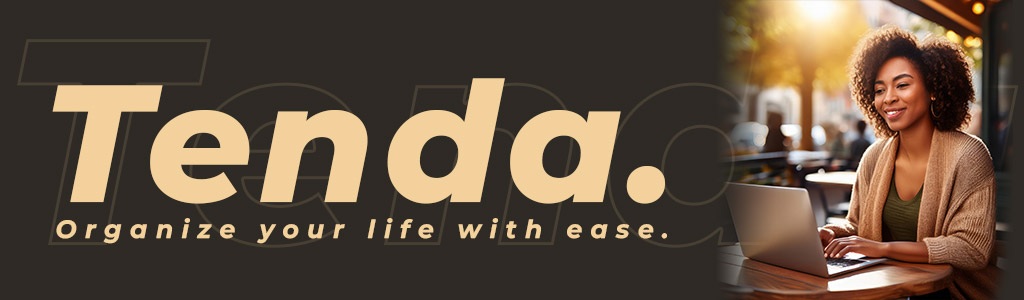
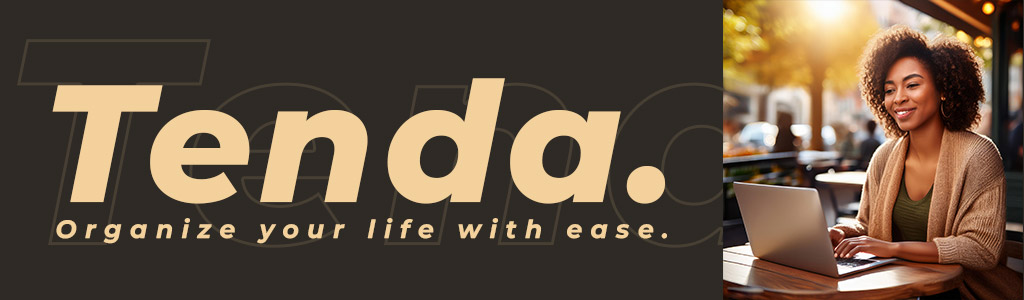
Page alignments and colour changes.

Changed region(s): [[0.6875, 0.0, 1.0, 1.0]]

diff --git a/tenda/static/main.css b/tenda/static/main.css
@@ -3,8 +3,18 @@ body {
   color: #F3D19C;
   margin: 20px;
   margin-top: 6rem;
-  }
-  
+}
+.cover-image {
+  border: 5px solid #F3D19C;
+  border-radius: 10px;
+}
+#landing {
+  display: flex;
+  justify-content: center;
+  align-items: center;
+  flex-direction: column;
+} 
+
 h1, h2, h3, h4, h5, h6 {
   color: #F3D19C;
 }
@@ -53,31 +63,35 @@ h1, h2, h3, h4, h5, h6 {
   padding: 10px 10px;
   border: none;
   border-radius: 5px;
-  font-size: 16px;
+  font-size: 20px;
   display: inline-block;
   text-decoration: none;
   cursor: pointer;
+  font-weight: bold;
 }
 #features {
-  padding: 4rem;
+  padding: 0rem;
   text-align: center;
 }
 .feature-container {
   display: flex;
   justify-content: space-around;
-  flex-wrap: wrap;
+  flex-direction: row;
+  color: #2E2A25;
   gap: 2rem;
 }
 .feature-container img{
-  width: 30%;
+  width: 80%;
   height: auto;
   margin: 10px;
 }
 .feature {
-  background-color: #fff;
-  padding: 2rem;
+  background-color: #F3D19C;
   border-radius: 10px;
   box-shadow: 0 4px 10px rgba(0, 0, 0, 0.1);
+}
+.feature-text {
+  color: #2E2A25;
 }
 .links {
   display: block;
@@ -85,7 +99,45 @@ h1, h2, h3, h4, h5, h6 {
   text-align: center;
   text-decoration: none;
 }
-
+.reset-link {
+  color: rgb(0, 0, 0);
+  text-decoration: none;
+}
+.mx-2 {
+  color: black;
+  text-decoration: none;
+}
+.btn {
+  padding: 10px 10px;
+  display: inline-block;
+  border-radius: 5px;
+  font-size: 15px;
+  font-weight: bold;
+  text-decoration: none;
+  cursor: pointer;
+}
+.btn-outline-info{
+  color: #2E2A25;
+  border: 2px solid #461b01;
+  background-color: transparent;
+  transition: 0.4s ease;
+}
+.btn-primary {
+  color: #F3D19C;
+  border: 2px solid #F3D19C;
+  background-color: transparent;
+  transition: 0.4s ease;
+}
+.btn-primary:hover {
+  background-color: #ffffff;
+  color: black;
+  border-color: rgb(255, 0, 43);
+}
+.btn-outline-info:hover {
+  background-color: #ffffff;
+  color: black;
+  border-color: rgb(255, 0, 43);
+}
 
 
 /*  */

diff --git a/tenda/templates/home.html b/tenda/templates/home.html
@@ -21,17 +21,17 @@
         <div class="feature-container">
           <div class="feature">
             <img src="{{ url_for('static', filename='images/Create-todo-feature.jpg') }}" alt="Feature 1 Image">
-            <h3>Create Tasks</h3>
+            <h3 class="feature-text">Create Tasks</h3>
             <p>Create customizable tasks, with detailed descriptions.</p>
           </div>
           <div class="feature">
             <img src="{{ url_for('static', filename='images/update-todo-feature.jpg') }}" alt="Feature 2 Image">
-            <h3>Update Tasks</h3>
+            <h3 class="feature-text">Update Tasks</h3>
             <p>Ability to update task name and description on the fly, in case you change your mind.</p>
           </div>
           <div class="feature">
             <img src="{{ url_for('static', filename='images/todo-completed-feature.jpg') }}" alt="Feature 3 Image">
-            <h3>Mark Completed</h3>
+            <h3 class="feature-text">Mark Completed</h3>
             <p>You can mark finished tasks as completed, so you can focus on what's left.</p>
           </div>
         </div>

diff --git a/tenda/templates/login.html b/tenda/templates/login.html
@@ -52,7 +52,7 @@
             <!-- forgotten password? click to reset -->
              <div class="text-muted ml-2">
                 Forgot password?
-                <a href="{{ url_for('reset_password_request') }}">Click to Reset it </a>
+                <a class="reset-link" href="{{ url_for('reset_password_request') }}">Click to Reset it </a>
              </div>
         </form>
         <div class=" pt-3">
